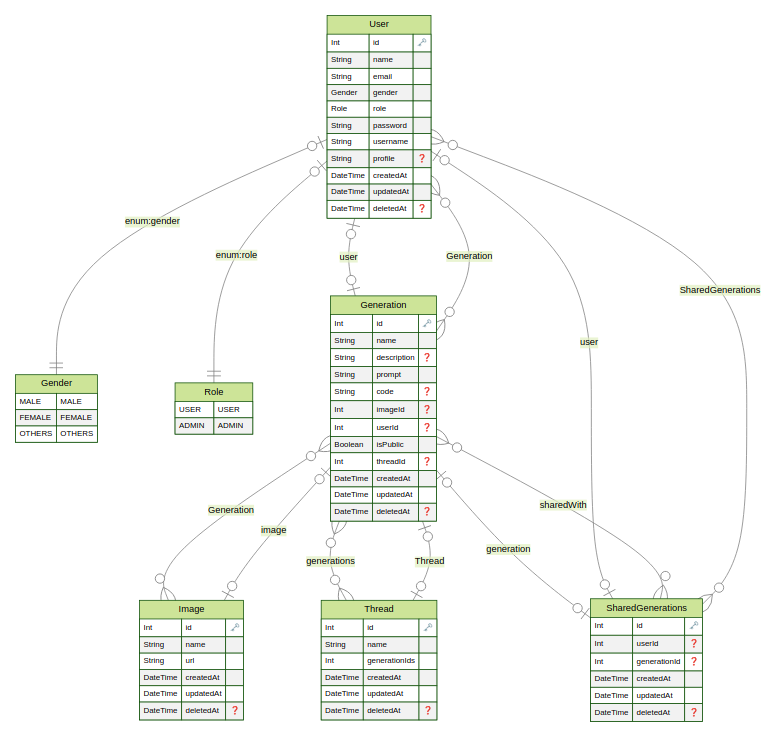
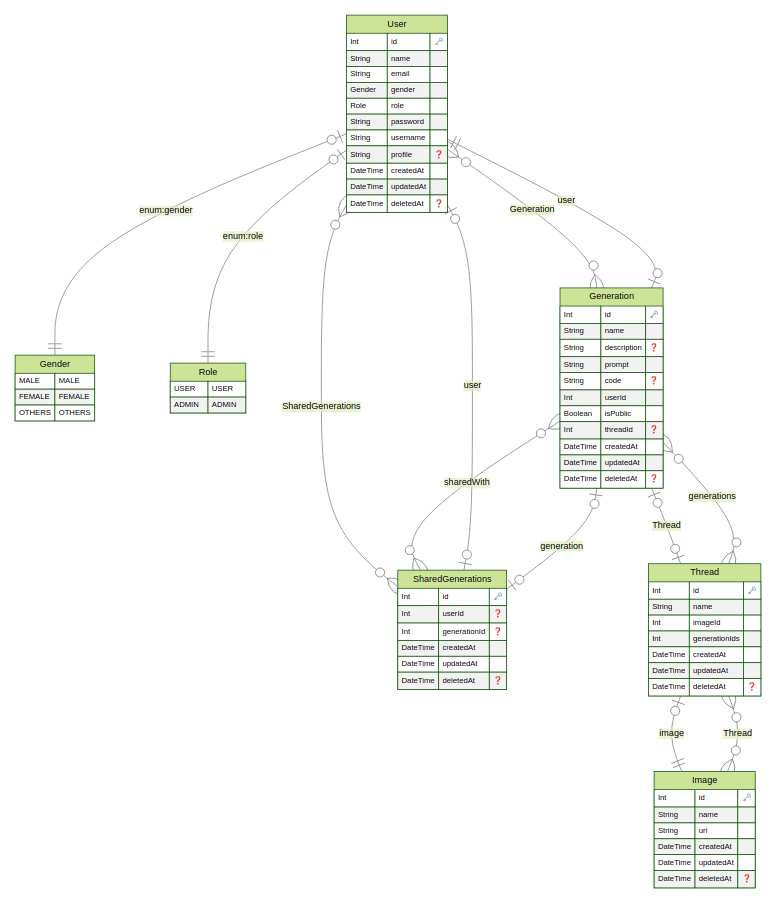
feat: add types to all entities

diff --git a/graphql/User/queries.ts b/graphql/User/queries.ts
@@ -1,0 +1,68 @@
+import { intArg, objectType, queryField, stringArg } from "nexus";
+import { AuthenticationError } from "../../helpers";
+import { checkPermissions } from "../../helpers/auth/checkPermissions";
+
+const PaginatedUserType = objectType({
+  name: 'PaginatedUserType',
+  description: 'Paginated response for user query',
+  definition(t) {
+    t.list.field('data', {
+      type: 'User',
+    });
+    t.int('count');
+  },
+});
+
+export const me = queryField('me', {
+  type: 'User',
+  description: 'Get the current logged in user',
+  resolve: async (_, __, ctx) => {
+    if (!ctx.auth?.id) {
+      throw AuthenticationError;
+    }
+
+    const user = await ctx.prisma.user.findUnique({
+      where: { id: ctx.auth.id },
+    });
+
+    return user;
+  },
+});
+
+export const user = queryField('user', {
+  type: PaginatedUserType,
+  description: 'Retrieves a list of users depending on the query arguments',
+  args: {
+    id: intArg(),
+    username: stringArg(),
+    pagination: "paginationInputType",
+  },
+  authorize: (_parent, _args, ctx) => {
+    if (!_args.id && !_args.username) {
+      return checkPermissions(ctx, ['ADMIN']);
+    }
+    return true;
+  },
+  resolve: async (_, { id, username, pagination }, { prisma }) => {
+    const prismaQuery = {
+      id: id || undefined,
+      username: username || undefined,
+    };
+    
+    const [users, count] = await prisma.$transaction([
+      prisma.user.findMany({
+        skip: pagination?.skip,
+        take: pagination?.take,
+        where: prismaQuery,
+      }),
+      prisma.user.count({
+        where: prismaQuery,
+      }),
+    ]);
+
+    return {
+      data: users,
+      count,
+    };
+  }
+});

diff --git a/graphql/Generation/type.ts b/graphql/Generation/type.ts
@@ -1,0 +1,60 @@
+import { objectType } from "nexus";
+
+export const Generation = objectType({
+  name: 'Generation',
+  description: 'Generateed UIs from sketches through users',
+  definition(t) {
+    t.nonNull.int('id')
+    t.nonNull.string('name')
+    t.string('description')
+    t.nonNull.string('prompt')
+    t.string('code')
+    t.nonNull.int('userId')
+    t.int('threadId')
+    t.nonNull.boolean('isPublic')
+    t.nonNull.date('createdAt')
+    t.nonNull.date('updatedAt')
+    t.nonNull.date('deletedAt')
+
+    t.nonNull.field('user', {
+      type: 'User',
+      description: 'User who generated the UI',
+      resolve: async (parent, _, ctx) => {
+        const user = await ctx.prisma.user.findUnique({
+          where: { id: parent.userId },
+        });
+
+        if (!user) {
+          throw new Error('User not found');
+        }
+
+        return user;
+      },
+    })
+
+    t.list.field('sharedWith', {
+      type: 'SharedGeneration',
+      description: 'Users with whom the UI is shared',
+      resolve: async (parent, _, ctx) => {
+        return ctx.prisma.sharedGenerations.findMany({
+          where: { generationId: parent.id },
+        });
+      },
+    })
+
+    t.field('thread', {
+      type: 'Thread',
+      description: 'Thread of generations',
+      resolve: async (parent, _, ctx) => {
+        if (!parent.threadId) {
+          return null;
+        }
+
+        return ctx.prisma.thread.findFirst({
+          where: { id: parent.threadId },
+        });
+      },
+
+    })
+  },
+})

diff --git a/graphql/Thread/type.ts b/graphql/Thread/type.ts
@@ -1,0 +1,45 @@
+// model Thread {
+//   id            Int          @id @default(autoincrement())
+//   name          String       @default("Untitled")
+//   imageId       Int          @unique
+//   image         Image        @relation(fields: [imageId], references: [id])
+//   generationIds Int[]
+//   generations   Generation[] @relation("generations")
+//   createdAt     DateTime     @default(now())
+//   updatedAt     DateTime     @updatedAt
+//   deletedAt     DateTime?
+// }
+
+import { objectType } from "nexus";
+
+export const Thread = objectType({
+  name: 'Thread',
+  description: 'Thread of generations based on the same image but same prompt',
+  definition(t) {
+    t.nonNull.int('id'),
+    t.string('name'),
+    t.nonNull.int('imageId'),
+    t.field('image', {
+      type: 'Image',
+      resolve: async (parent, _, ctx) => {
+        return ctx.prisma.image.findFirst({
+          where: { id: parent.imageId },
+        });
+      },
+    }),
+    t.list.nonNull.int('generationIds'),
+    t.list.nonNull.field('generations', {
+      type: 'Generation',
+      resolve: async (parent, _, ctx) => {
+        if(!parent.generationIds) return [];
+
+        return ctx.prisma.generation.findMany({
+          where: { id: { in: parent.generationIds } },
+        });
+      },
+    }),
+    t.nonNull.date('createdAt')
+    t.nonNull.date('updatedAt')
+    t.nonNull.date('deletedAt')
+  },
+})

diff --git a/graphql/User/mutation.ts b/graphql/User/mutation.ts
@@ -36,6 +36,7 @@ export const UserUpdateInputType = inputObjectType({
 
 export const signup = mutationField('signup', {
   type: 'AuthPayload',
+  description: 'Create a new user and return the token and user',
   args: {
     data: nonNull('UserCreateInputType'),
   },
@@ -62,6 +63,7 @@ export const signup = mutationField('signup', {
 
 export const login = mutationField('login', {
   type: 'AuthPayload',
+  description: 'Login the user and return the token and user',
   args: {
     username: nonNull(stringArg()),
     password: nonNull(stringArg()),
@@ -92,6 +94,7 @@ export const login = mutationField('login', {
 
 export const updateProfile = mutationField('updateProfile', {
   type: 'User',
+  description: 'Update the profile of the current logged in user or the user with the given id if the user is an admin',
   args: {
     id: intArg(),
     data: nonNull('UserUpdateInputType'),
@@ -125,6 +128,7 @@ export const updateProfile = mutationField('updateProfile', {
 
 export const changePassword = mutationField('changePassword', {
   type: 'Boolean',
+  description: 'Change the password of the current logged in user',
   args: {
     username: stringArg(),
     oldPassword: stringArg(),

diff --git a/graphql/SharedGenerations/type.ts b/graphql/SharedGenerations/type.ts
@@ -1,0 +1,42 @@
+import { objectType } from "nexus";
+
+export const SharedGeneration = objectType({
+  name: 'SharedGeneration',
+  description: 'Generations shared between users',
+  definition(t) {
+    t.nonNull.int('id')
+    t.int('generationId')
+    t.int('userId')
+    t.nonNull.date('createdAt')
+    t.nonNull.date('updatedAt')
+    t.nonNull.date('deletedAt')
+
+    t.field('generation', {
+      type: 'Generation',
+      description: 'Generation shared with the user',
+      resolve: async (parent, _, ctx) => {
+        if (!parent.generationId) {
+          return null;
+        }
+
+        return ctx.prisma.generation.findFirst({
+          where: { id: parent.generationId },
+        });
+      },
+    })
+
+    t.field('user', {
+      type: 'User',
+      description: 'User with whom the generation is shared',
+      resolve: async (parent, _, ctx) => {
+        if (!parent.userId) {
+          return null;
+        }
+
+        return ctx.prisma.user.findFirst({
+          where: { id: parent.userId },
+        });
+      },
+    })
+  },
+})

diff --git a/graphql/Image/type.ts b/graphql/Image/type.ts
@@ -1,0 +1,14 @@
+import { objectType } from "nexus";
+
+export const Image = objectType({
+  name: 'Image',
+  description: 'Images used in generation of UI',
+  definition(t) {
+    t.nonNull.int('id')
+    t.nonNull.string('name')
+    t.nonNull.string('url')
+    t.nonNull.date('createdAt')
+    t.nonNull.date('updatedAt')
+    t.nonNull.date('deletedAt')
+  },
+})

diff --git a/helpers/auth/checkPermissions.ts b/helpers/auth/checkPermissions.ts
@@ -66,7 +66,7 @@ const checkBasePermissions = async ({
       if (allowedIds.length > 0 && !allowedIds.includes(ctx.auth.id)) {
         return errorHandler(ERRORS.FORBIDDEN);
       }
-      return ctx.auth; 
+      return true;
     }
 
     if (!requiredRoles.includes(ctx.auth.role)) {

diff --git a/graphql/index.ts b/graphql/index.ts
@@ -1,2 +1,6 @@
 export * from './User';
 export * from './Scalars';
+export * from './Image';
+export * from './Generation';
+export * from './Thread';
+export * from './SharedGenerations';

diff --git a/graphql/User/index.ts b/graphql/User/index.ts
@@ -1,3 +1,3 @@
 export * from './mutation';
-// export * from './queries'
+export * from './queries'
 export * from './type';

diff --git a/graphql/Generation/index.ts b/graphql/Generation/index.ts
@@ -1,0 +1,3 @@
+// export * from './mutation'
+export * from './type'
+// export * from './queries'

diff --git a/graphql/Image/index.ts b/graphql/Image/index.ts
@@ -1,0 +1,3 @@
+// export * from './mutation'
+export * from './type'
+// export * from './queries'

diff --git a/graphql/SharedGenerations/index.ts b/graphql/SharedGenerations/index.ts
@@ -1,0 +1,3 @@
+// export * from './mutation'
+export * from './type'
+// export * from './queries'
